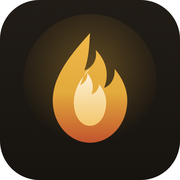
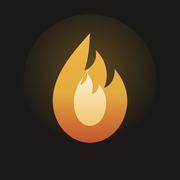
Versionar ícones pra furar cache do splash no Android
O splash de abertura continuava mostrando o ícone antigo mesmo com
o ícone da tela inicial já atualizado: o Android monta o splash a
partir do icon-512.png, e o celular ainda tinha a versão antiga
desse arquivo em cache. Os ícones passam a ter nomes novos (-v2),
então nenhum cache (navegador, CDN do GitHub Pages ou servidor de
WebAPK) consegue entregar a imagem velha.

Também adiciona um ícone maskable (fundo preenchendo o quadrado,
chama dentro da zona segura), que o Android usa no launcher e no
splash — o ícone fica preenchendo o formato do sistema em vez de
aparecer reduzido dentro de uma moldura. O fundo agora é exatamente
a cor do splash (#1B1815), então a chama aparece sem borda visível.

O caminho do manifest.json não muda, pra não quebrar a identidade
do app instalado.

Claude-Session: https://claude.ai/code/session_01LAqvWebbiWRkwFSHeghpbn

diff --git a/index.html b/index.html
@@ -5,8 +5,8 @@
 <meta name="viewport" content="width=device-width, initial-scale=1, viewport-fit=cover" />
 <title>No Ponto — dieta, água e treino</title>
 <link rel="manifest" href="manifest.json" />
-<link rel="icon" type="image/png" sizes="192x192" href="icon-192.png" />
-<link rel="apple-touch-icon" href="apple-touch-icon.png" />
+<link rel="icon" type="image/png" sizes="192x192" href="icon-192-v2.png" />
+<link rel="apple-touch-icon" href="apple-touch-icon-v2.png" />
 <meta name="theme-color" content="#1B1815" />
 <meta name="apple-mobile-web-app-capable" content="yes" />
 <meta name="apple-mobile-web-app-status-bar-style" content="black-translucent" />
